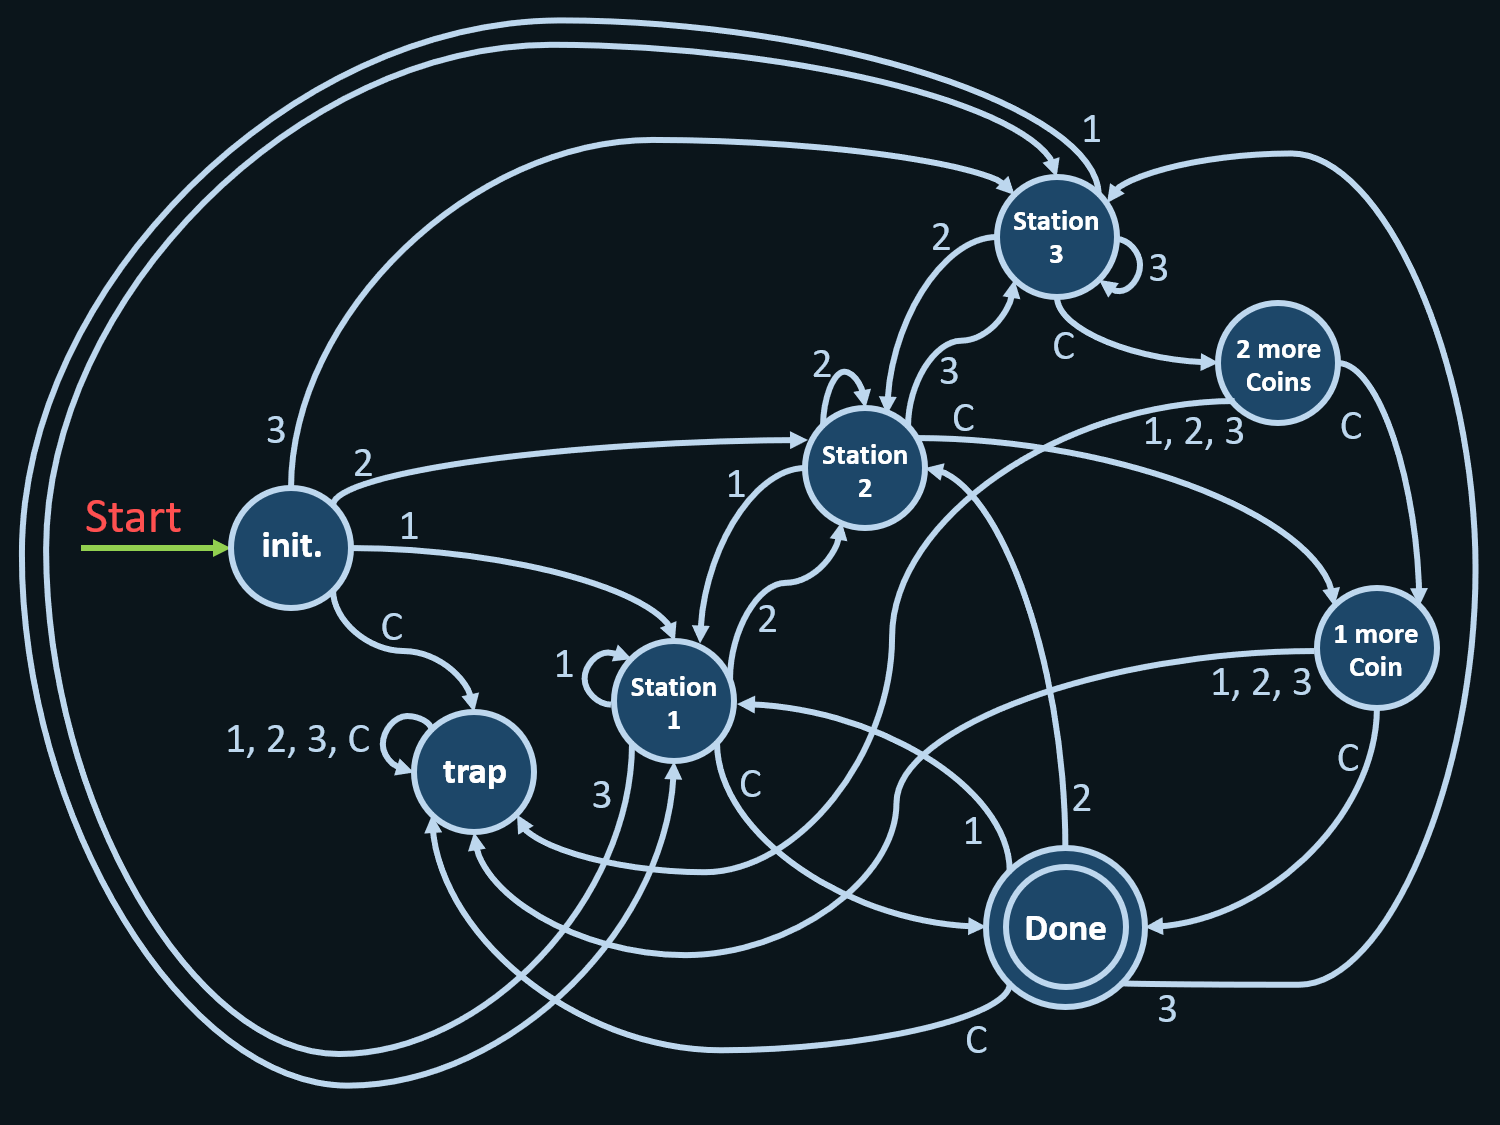
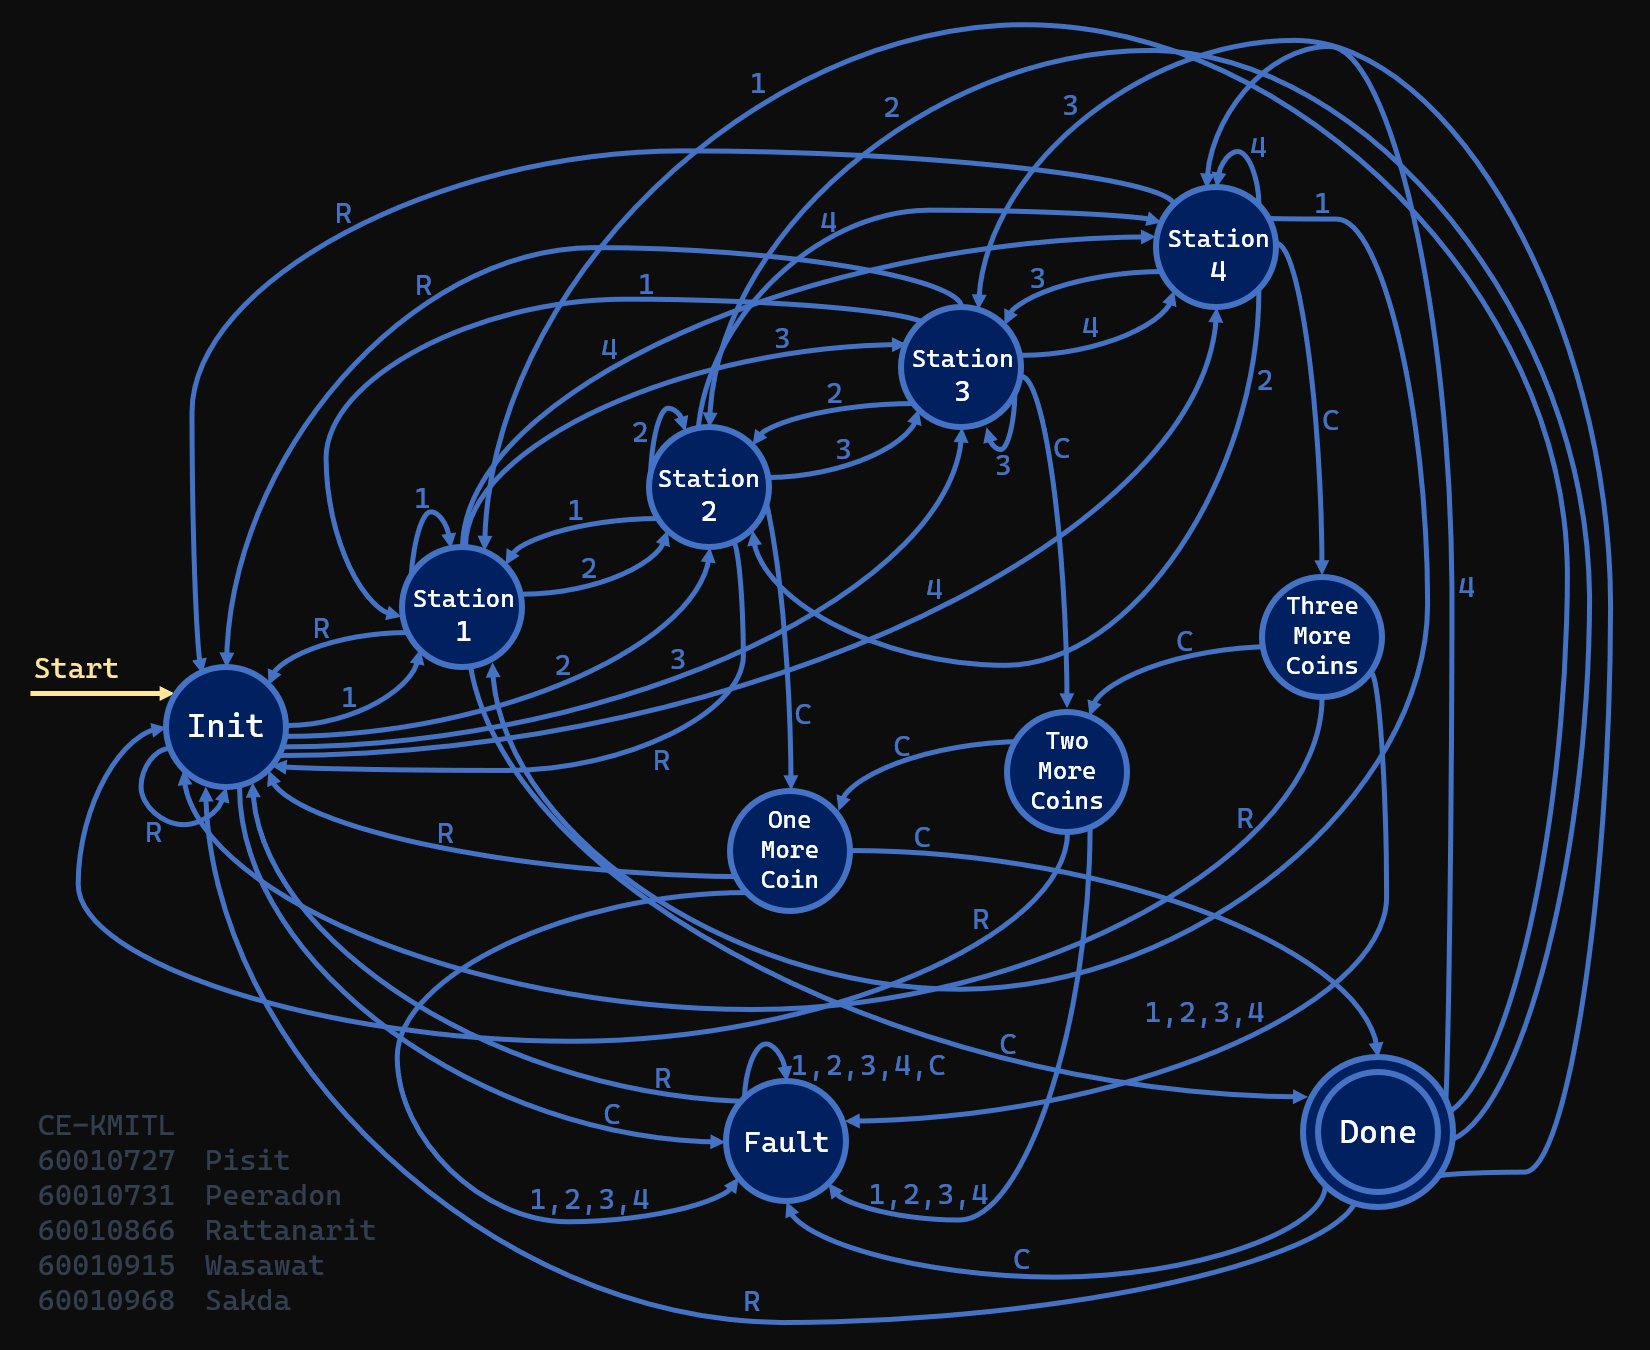
new dfa

diff --git a/src/App.js b/src/App.js
@@ -4,13 +4,12 @@ import 'bootstrap/dist/css/bootstrap.min.css';
 import { Button, InputGroup, FormControl, Form, Navbar, Nav, Modal } from 'react-bootstrap';
 
 import { stateInit } from './states/stateInit'
-import { stateTrap } from './states/stateTrap'
 
 import base from './images/base.png'
-import helpImg from './images/etc/help1.jpg'
 import reader from './images/etc/readerArrow.png'
+import helpImg from './images/etc/help1.jpg'
 
-const credit = "Source Code Last Update: 22-Mar-20 1:15AM"
+const credit = "Source Code Last Update: 29-Mar-20 01:15AM"
 
 class App extends Component {
 
@@ -38,7 +37,7 @@ class App extends Component {
   }
 
   handleEnterClick() {
-    if(this.state.text.match("[^1-4Cc]")==null) {
+    if(this.state.text.match("[^1-4CRcr]")==null) {
       this.handleRestartClick()
       this.setState({ 
         string: ' '+this.state.text,
@@ -81,12 +80,9 @@ class App extends Component {
           outputFromState = stateInit(presentChar)
           break
         }
-        case 'Trap': {
-          outputFromState = stateTrap(presentChar)
-          break
-        }
         default: {
           console.log('Something went wrong')
+          
         }
       }
       
@@ -174,7 +170,7 @@ class App extends Component {
               <InputGroup.Text>String</InputGroup.Text>
             </InputGroup.Prepend>
                 <FormControl
-                  placeholder="e.g.3CCC12CC"
+                  placeholder="e.g.2CC43C1R1C"
                   value={this.state.text}
                   onChange={ (e)=>this.setState({text: e.target.value}) }
                 />
@@ -208,6 +204,9 @@ class App extends Component {
             </Button>
             <Button variant="outline-primary" onClick={ ()=>this.handleCharClick('C') }>
               C : Insert 1 Coin
+            </Button>
+            <Button variant="outline-primary" onClick={ ()=>this.handleCharClick('R') }>
+              R : Reset
             </Button>
           </div>
           
@@ -257,13 +256,16 @@ function HelpModal(props) {
       </Modal.Header>
       <Modal.Body>
         <p>
-          &emsp;เลือกสถานีและสามารถเปลี่ยนไปสถานีอื่นได้ถ้ายังไม่ใส่เหรียญ แต่ถ้าใส่เหรียญแล้วต้องใส่ให้ครบตามจำนวนสถานีที่ผ่าน (ถ้าเลือกสถานี x , ก็ต้องจ่าย x เหรียญ)
+          &emsp;เลือกสถานีและสามารถเปลี่ยนไปสถานีอื่นได้ถ้ายังไม่ใส่เหรียญ
+          แต่เมื่อใส่เหรียญแล้วต้องใส่ให้ครบตามจำนวนสถานีที่ผ่าน
+          (เช่นเลือกสถานี x , ก็ต้องจ่าย x เหรียญ)
+          และถ้าหากทำขั้นตอนผิดพลาดให้กด Reset
         </p>
         <p>
           <b>วิธีใช้งานเว็บ</b>
           <ol>
             <li>
-              พิมพ์ String ที่มี Symbol ใน &Sigma;{" = {1, 2, 3, 4, C} "} หรือกดปุ่มเพื่อเพิ่ม Symbol
+              พิมพ์ String ที่มี Symbol ใน &Sigma;{" = {1, 2, 3, 4, C, R} "} หรือกดปุ่มเพื่อเพิ่ม Symbol
             </li>
             <li>
               กด Enter เพื่อนำ Input ไปใส่ใน DFA
@@ -300,7 +302,7 @@ function WarningModal(props) {
       <Modal.Body>
         <p>
           <span>&#9888;</span>
-          &nbsp; โปรดป้อน String ที่เป็น Alphabet ในเซต &Sigma;{" = {1, 2, 3, 4, C} "}
+          &nbsp; โปรดป้อน String ที่เป็น Alphabet ในเซต &Sigma;{" = {1, 2, 3, 4, C, R} "}
           <br/>หรือเลือกกดปุ่มด้านล่าง
           <img src={ helpImg } alt="img" width="100%"/>
         </p>
@@ -313,5 +315,12 @@ function WarningModal(props) {
 }
 
 
-//npm start
-//npm run deploy
+//ถ้าจะลองรันเว็บ ให้ลติดตั้ง Node.js
+//จากนั้นใช้ cmd เข้าไปใน folder งาน
+//แล้วพิมพ์คำสั่ง npm start
+
+
+//อย่าไปยุ่งกับ Branch gh-pages ใน Git
+
+
+//ใช้ตอน Deploy จริงเท่านั้น: npm run deploy

diff --git a/src/states/stateInit.js b/src/states/stateInit.js
@@ -1,30 +1,26 @@
 // Import Images of this State
-import Init_1 from '../images/init-1.png'
-import Init_2 from '../images/init-2.png'
-import Init_3 from '../images/init-3.png'
-import Init_c from '../images/init-c.png'
-import Init_empty from '../images/init-empty.png'
+import img from '../images/init.png'
 
 // Function Returns Image File & Name of Next State
 export function stateInit(nextChar) {
   switch(nextChar) {
     case '1': {
-      return [Init_1, 'Station1'] 
+      return [img, 'Station1'] 
     }
     case '2': {
-      return [Init_2, 'Station2']
+      return [img, 'Station2']
     }
     case '3': {
-      return [Init_3, 'Station3'] //Wrong
+      return [img, 'Station3'] //Wrong
     }
     case '4': {
-      return [Init_3, 'Station4']
+      return [img, 'Station4']
     }
     case ' ': {
-      return [Init_empty, 'Init']
+      return [img, 'Init']
     }
     default: {
-      return [Init_c, 'Trap']
+      return [img, 'Trap']
     }
   }
 }
